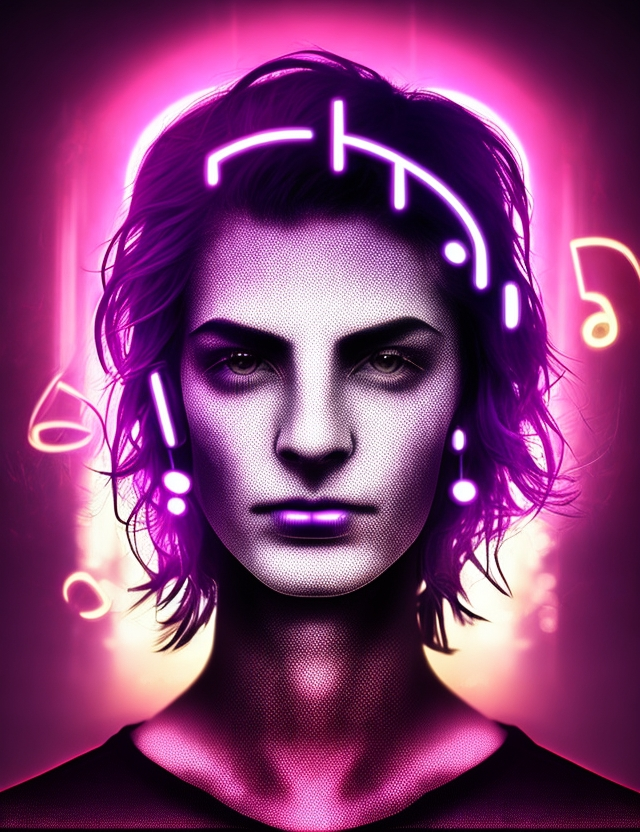
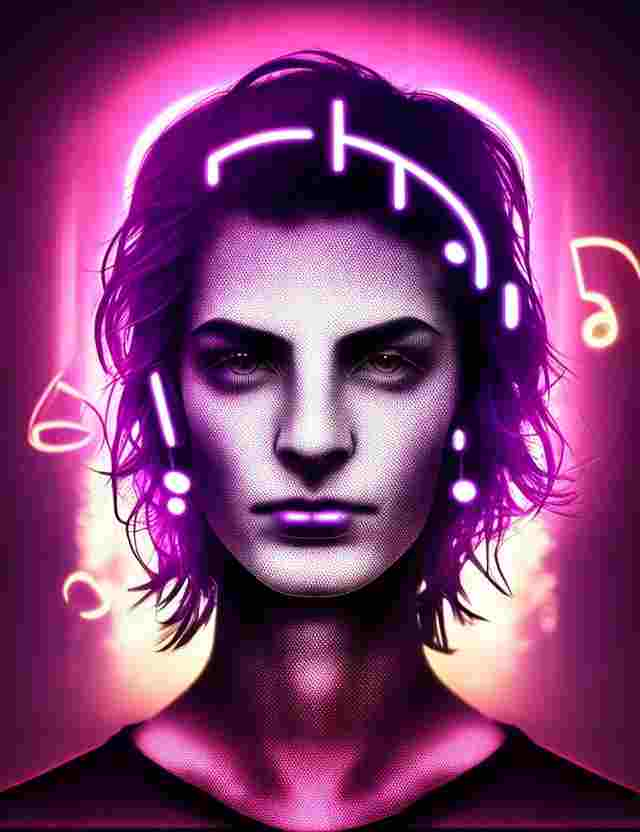
fix: tamanho das imagens

diff --git a/src/styles/SearchStyles.ts b/src/styles/SearchStyles.ts
@@ -1,6 +1,6 @@
 import styled from 'styled-components';
-import backgroundSerchScreen from '../images/searchBackground.png';
-import backgroundSearchScreeDesktop from '../images/SearchBackgroundDesktop.png';
+import backgroundSerchScreen from '../images/searchBackground.jpg';
+import backgroundSearchScreeDesktop from '../images/SearchBackgroundDesktop.jpg';
 
 export const SearchWrapperMain = styled.section`
   height: 100%;

diff --git a/src/styles/LoginStyles.ts b/src/styles/LoginStyles.ts
@@ -1,6 +1,6 @@
 import styled, { css } from 'styled-components';
-import LoginBackgroundDeskTop from '../images/LoginBackgroundDeskTop.png';
-import backgroundImage from '../images/background-login.png';
+import LoginBackgroundDeskTop from '../images/LoginBackgroundDeskTop.jpg';
+import backgroundImage from '../images/background-login.jpg';
 
 export const LoginWrapper = styled.div`
   display: flex;

diff --git a/src/styles/FavoritesStyles.ts b/src/styles/FavoritesStyles.ts
@@ -1,5 +1,5 @@
 import styled from 'styled-components';
-import backgroundFavorites from '../images/background-favorites.png';
+import backgroundFavorites from '../images/background-favorites.jpg';
 
 export const FavoriteMainWrapper = styled.div`
   height: 100%;

diff --git a/src/styles/ProfileStyles.ts b/src/styles/ProfileStyles.ts
@@ -1,5 +1,5 @@
 import styled, { css } from 'styled-components';
-import backgroundProfile from '../images/violino.png';
+import backgroundProfile from '../images/violino.jpg';
 
 export const ProfileWrapperMain = styled.section`
   height: 100%;
